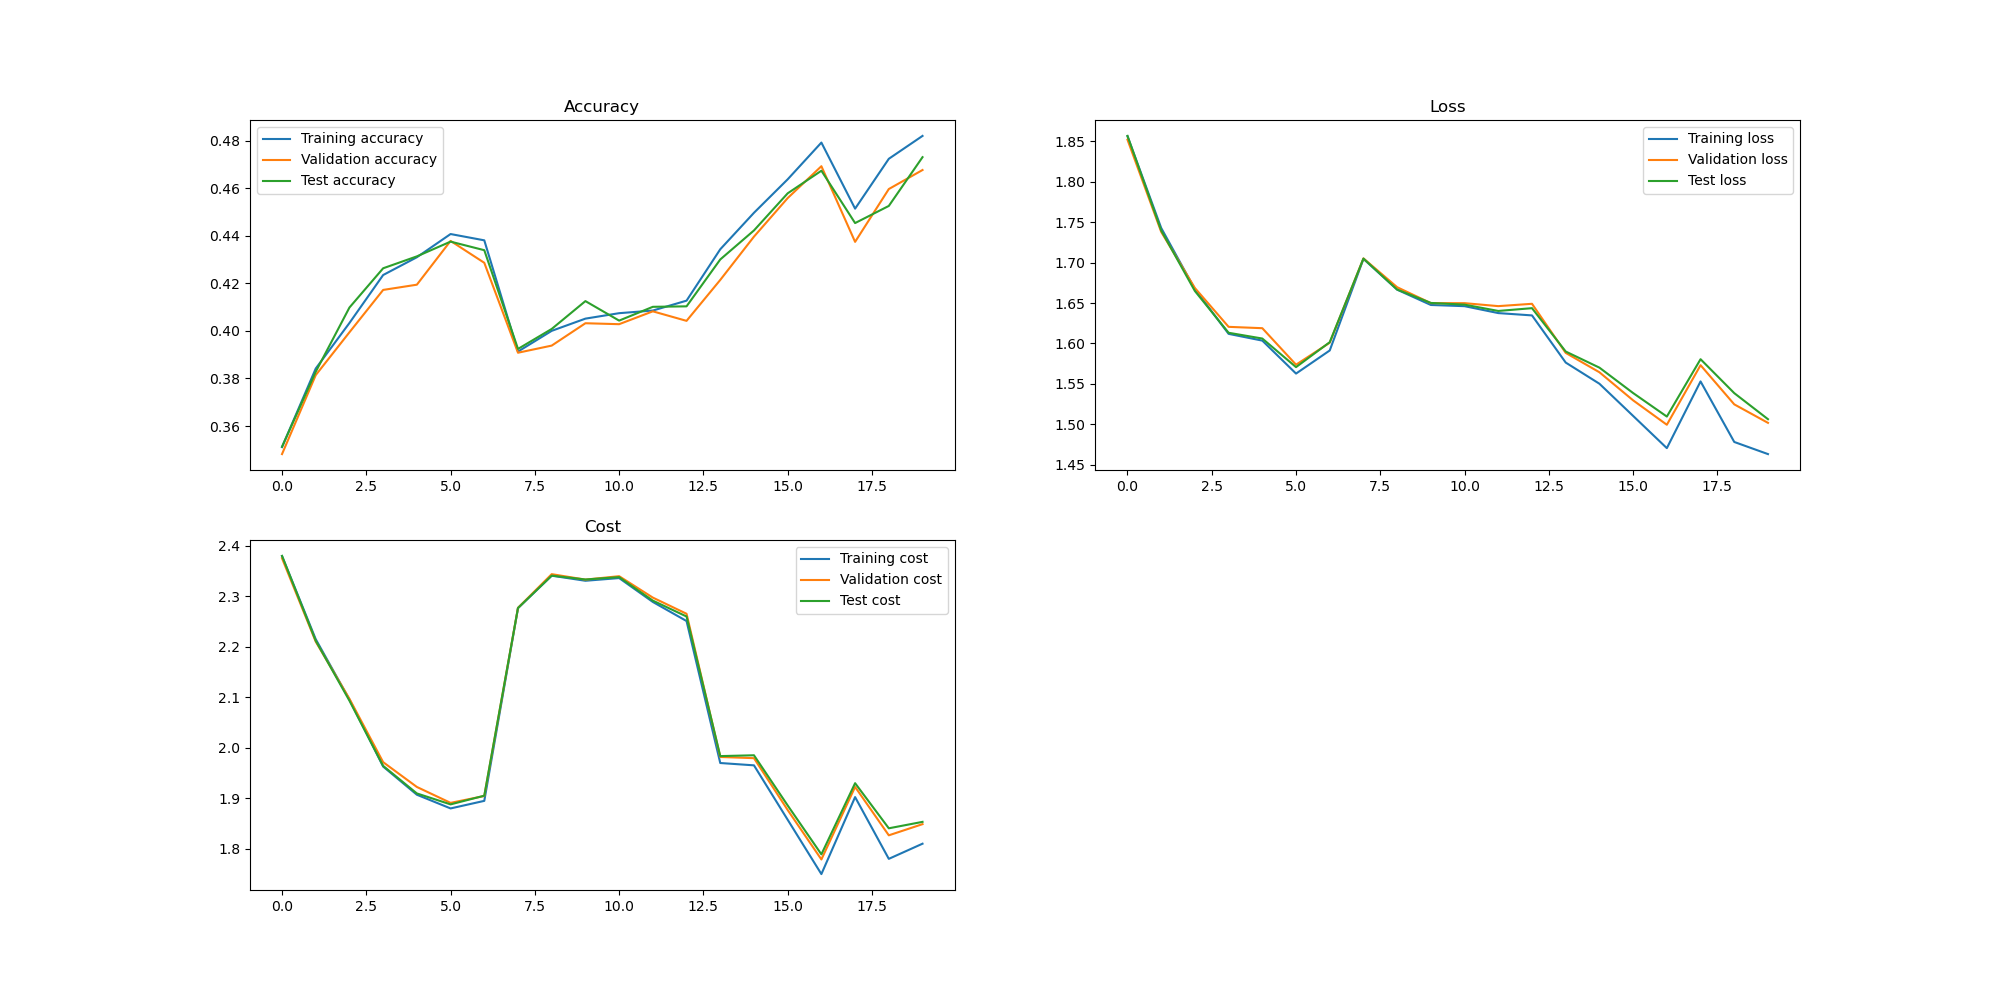
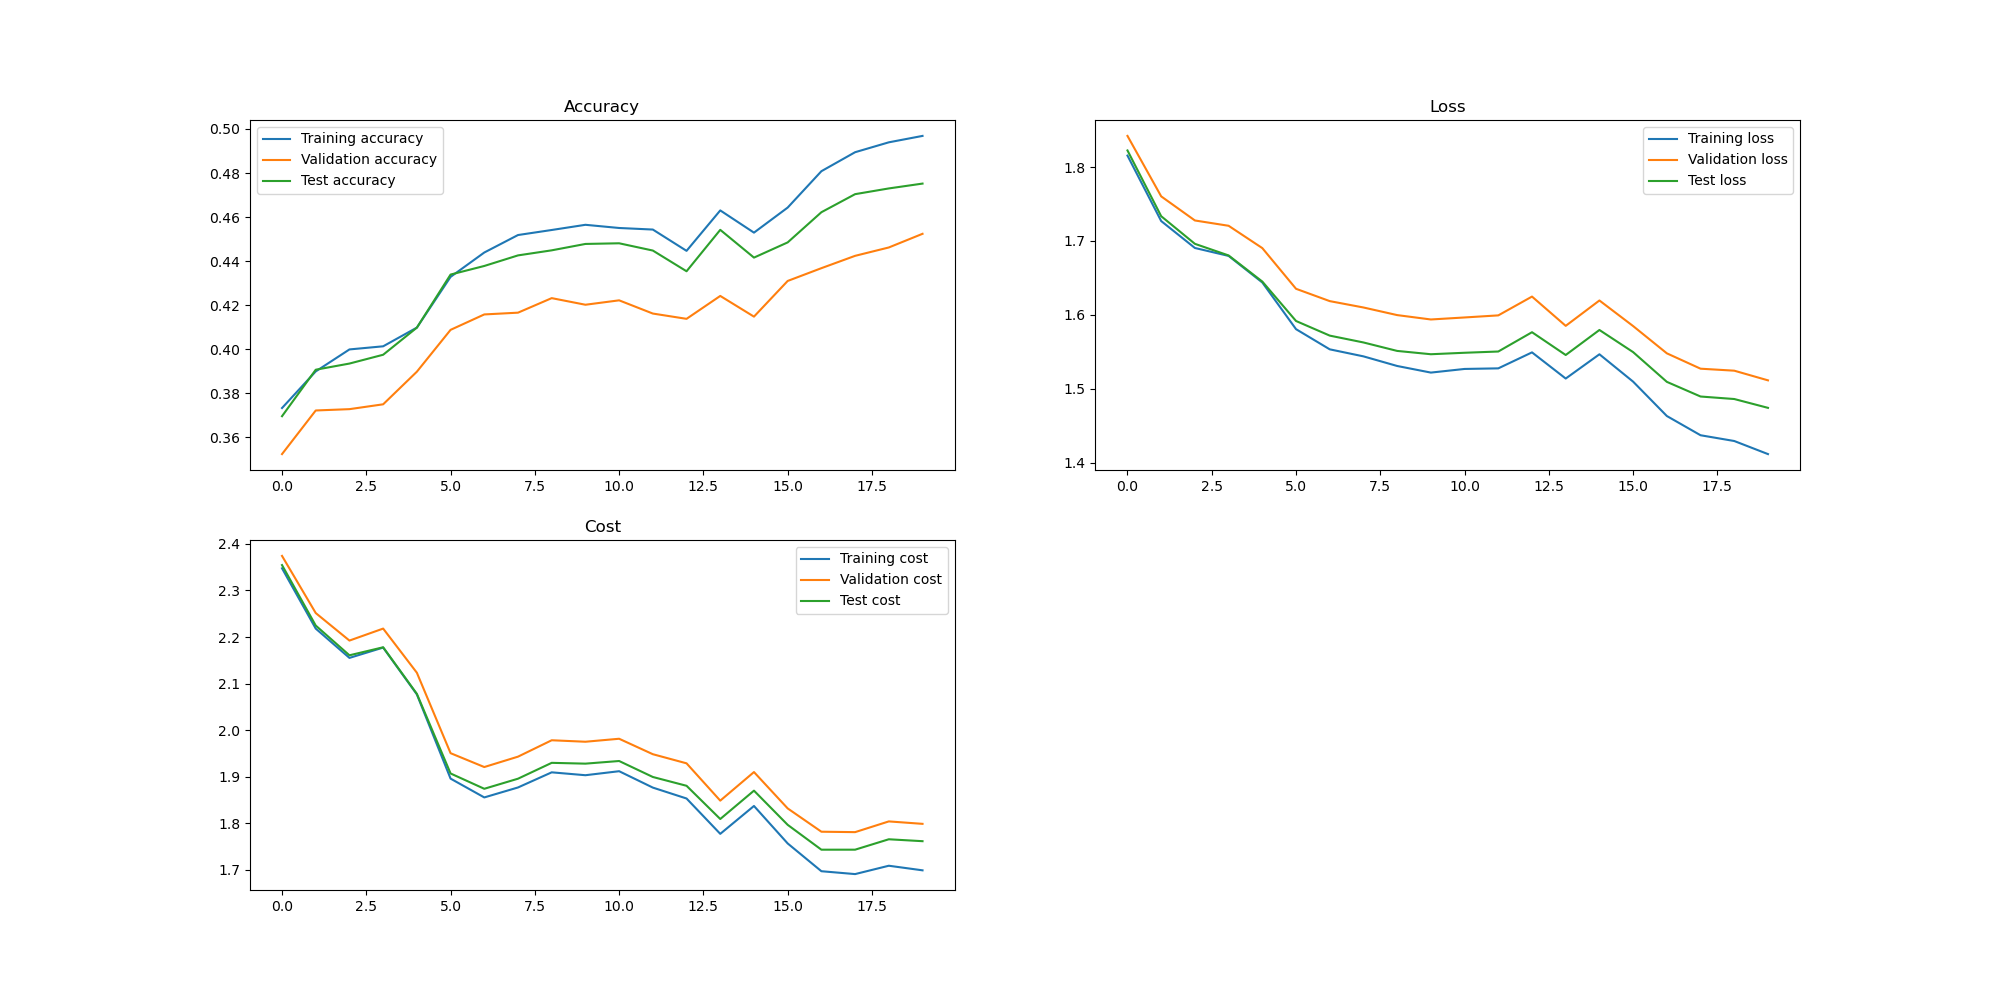
Able to compare now

diff --git a/Labs/Lab 3/lab3.py b/Labs/Lab 3/lab3.py
@@ -166,6 +166,7 @@ def forward_pass(data, weights, bias, gamma=None, beta= None, mean = None, var =
       layers.append(relu(scores_list[-1])) # Get the relu of the scores and append them to the list
     scores_list.append(get_scores(layers[-1], weights[-1], bias[-1])) 
     layers.append(softmax(scores_list[-1])) # Softmax of the last layer and append it to the list
+    return layers, scores_list, None, None, None
   else:
     layers = list() # List of layers
     scores_list = list() # List of scores for each layer
@@ -191,7 +192,7 @@ def forward_pass(data, weights, bias, gamma=None, beta= None, mean = None, var =
     # Get the scores and append them to the list
     scores_list.append(get_scores(layers[-1], weights[-1], bias[-1]))
     layers.append(softmax(scores_list[-1])) # Softmax of the last layer and append it to the list   
-  return layers, scores_list,batch_normalised_scores, mean_list, variance_list, 
+    return layers, scores_list,batch_normalised_scores, mean_list, variance_list, 
   
 
 def back_pass(data, labels, weights, reg, softmax, scores, s_hat, gamma= None, mean = None, var = None, do_batchNorm = False):
@@ -317,15 +318,18 @@ def cyclical_update(current_iteration, half_cycle, min_learning, max_learning):
         return max_learning - (current_iteration - (2 * current_cycle + 1) * half_cycle) / half_cycle * (max_learning - min_learning)
 
 
-def update_weights_bias(weights, bias, grad_weights, grad_bias, learning_rate, gamma, beta, grad_gamma, grad_beta):
+def update_weights_bias(weights, bias, grad_weights, grad_bias, learning_rate, gamma, beta, grad_gamma, grad_beta, do_batchNorm):
   for i in range(len(weights)):
     weights[i] = weights[i] - learning_rate * grad_weights[i]
     bias[i] = bias[i] - learning_rate * grad_bias[i]
-
+  if do_batchNorm:
   # Update gamma and beta
-  for i in range(len(grad_gamma)):
-    gamma[i] = gamma[i] - learning_rate * grad_gamma[i]
-    beta[i] = beta[i] - learning_rate * grad_beta[i]
+    for i in range(len(grad_gamma)):
+      gamma[i] = gamma[i] - learning_rate * grad_gamma[i]
+      beta[i] = beta[i] - learning_rate * grad_beta[i]
+  else:
+    gamma = None
+    beta = None
   return weights, bias, gamma, beta
 
 def sgd_minibatch(data_train, data_val, data_test, weights, bias, labels_train, labels_val, labels_test, learning_rate, reguliser, batch_size, cycles,gamma, beta, do_plot = False, do_batchNorm = False, name_of_file=""):
@@ -367,7 +371,7 @@ def sgd_minibatch(data_train, data_val, data_test, weights, bias, labels_train, 
       grad_weights, grad_bias, grad_gamma, grad_beta = back_pass(layers, labels_batch, weights, reguliser, layers[-1], scores_list[-1], scores_normalised, gamma, mean_list, variance_list, do_batchNorm=do_batchNorm)
     
       # Update the weights and bias
-      weights, bias,gamma,beta  = update_weights_bias(weights, bias, grad_weights, grad_bias, learning_rate, gamma, beta, grad_gamma, grad_beta)
+      weights, bias,gamma,beta  = update_weights_bias(weights, bias, grad_weights, grad_bias, learning_rate, gamma, beta, grad_gamma, grad_beta, do_batchNorm=do_batchNorm)
   
       # Update the learning rate
       current_iteration = epoch * updates_per_epoch + batch
@@ -459,12 +463,37 @@ def main():
     'cycles': 2,
     'do_plot': True,
     'do_batchNorm': True,
-    'name_of_file': "SGD_minibatch",
+    'name_of_file': "Batch_normalisation_50_50_10_reg_0.005",
     'gamma': gamma,
     'beta': beta
-}
+}  
+  weights, bias = sgd_minibatch(**config)
   
-  weights1, bias1, = sgd_minibatch(**config)
+  # Initialising the network again
+  weights, bias, gamma,beta = init_network(data_train, [50,50,10], he = False)
+  
+  config2 = {
+  'data_train': data_train,
+  'data_val': data_val,
+  'data_test': data_test,
+  'weights': weights,
+  'bias': bias,
+  'labels_train': labels_train,
+  'labels_val': labels_val,
+  'labels_test': labels_test,
+  'learning_rate': 0.01,
+  'reguliser': 0.005,
+  'batch_size': 100,
+  'cycles': 2,
+  'do_plot': True,
+  'do_batchNorm': False,
+  'name_of_file': "No-Batch_normalisation_50_50_10_reg_0.005",
+  'gamma': gamma,
+  'beta': beta
+}
+
+
+  weights2, bias2 = sgd_minibatch(**config2)
 
 
 if __name__ == "__main__":
